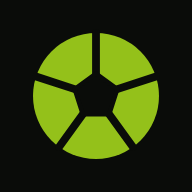
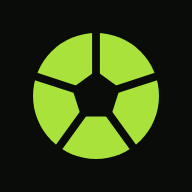
feat(web): glowing brand green, dark amber GK Lagbe, dark green Opponent Lagbe
The site's own green (#a8e23a) is now brand-only and glows softly on the
logo, the headline and the progress bar. Each board has its own darker
colour: GK Lagbe #d4861f, Opponent Lagbe #2e9e5b (both ~6:1 on the page
and with dark text on buttons).

Changed region(s): [[0.1562, 0.1562, 0.8438, 0.8438]]

diff --git a/web/src/index.css b/web/src/index.css
@@ -11,8 +11,8 @@
   --card-foreground: #eef3e6;
   --popover: #111410;
   --popover-foreground: #eef3e6;
-  /* Brand green (also Opponent Lagbe), a touch darker than the original #a6d421. */
-  --primary: #94c11a;
+  /* The site's own glowing green: brand only (logo, headline, site-wide accents). */
+  --primary: #a8e23a;
   --primary-foreground: #0a0c09;
   --secondary: #181c15;
   --secondary-foreground: #eef3e6;
@@ -25,26 +25,39 @@
   --border: #1d2219;
   --line: #2b3226;
   --input: #2b3226;
-  --ring: #94c11a;
+  --ring: #a8e23a;
   --line-strong: #4a5342;
-  /* GK Lagbe's colour. */
-  --gk: #f0a23a;
+  /* The two boards each have their own, darker colour, apart from the brand. */
+  --gk: #d4861f; /* GK Lagbe: dark amber */
   --gk-foreground: #0a0c09;
-  /* The current board's colour: brand green unless a .board-gk ancestor says amber. */
+  --opp: #2e9e5b; /* Opponent Lagbe: dark green */
+  --opp-foreground: #0a0c09;
+  /* The current board's colour: brand green outside any board, else the board's own. */
   --board: var(--primary);
   --board-foreground: var(--primary-foreground);
 }
 
-/* Anything that belongs to one board takes its colour: GK Lagbe amber, Opponent Lagbe green. */
+/* Anything that belongs to one board takes its colour: GK Lagbe dark amber, Opponent Lagbe dark green. */
 .board-gk {
   --board: var(--gk);
   --board-foreground: var(--gk-foreground);
   --ring: var(--gk);
 }
 .board-opp {
-  --board: var(--primary);
-  --board-foreground: var(--primary-foreground);
-  --ring: var(--primary);
+  --board: var(--opp);
+  --board-foreground: var(--opp-foreground);
+  --ring: var(--opp);
+}
+
+/* The brand green glows a little where it matters (logo, headline, progress bar). */
+.glow {
+  text-shadow: 0 0 28px color-mix(in srgb, var(--primary) 45%, transparent);
+}
+.glow-box {
+  box-shadow: 0 0 14px color-mix(in srgb, var(--primary) 70%, transparent);
+}
+.glow-svg {
+  filter: drop-shadow(0 0 8px color-mix(in srgb, var(--primary) 55%, transparent));
 }
 
 @theme inline {
@@ -61,6 +74,7 @@
   --color-board: var(--board);
   --color-board-foreground: var(--board-foreground);
   --color-gk: var(--gk);
+  --color-opp: var(--opp);
   --color-secondary: var(--secondary);
   --color-secondary-foreground: var(--secondary-foreground);
   --color-muted: var(--muted);

diff --git a/web/src/pages/HomePage.tsx b/web/src/pages/HomePage.tsx
@@ -142,7 +142,7 @@ function Hero({ state, openOf }: { state: AsyncState<PublicPost[]>; openOf: (typ
           className="on-pitch font-display text-[clamp(5.75rem,21vw,13rem)] md:text-[14vw] xl:text-[13rem] leading-[0.8] font-extrabold tracking-[-0.015em] uppercase"
         >
           <RevealWords text="Khelbi" className="block" />
-          <RevealWords text="Naki?" className="block" wordClassName="text-board" delay={0.12} />
+          <RevealWords text="Naki?" className="glow block" wordClassName="text-primary" delay={0.12} />
         </h1>
 
         <FadeUp delay={0.15}>
@@ -247,8 +247,8 @@ function HowItWorks() {
 function Step({ step, i, progress }: { step: (typeof steps)[number]; i: number; progress: MotionValue<number> }) {
   const start = i / 3;
   // Each numeral lights up lime as the line reaches it.
-  const outline = useTransform(progress, [start, start + 0.12], ["#4a5342", "#94c11a"]);
-  const dot = useTransform(progress, [start, start + 0.05], ["#2b3226", "#94c11a"]);
+  const outline = useTransform(progress, [start, start + 0.12], ["#4a5342", "#a8e23a"]);
+  const dot = useTransform(progress, [start, start + 0.05], ["#2b3226", "#a8e23a"]);
 
   return (
     <li className={cn("relative flex gap-6 md:block md:pt-12", i === 0 ? "md:pr-12" : i === 1 ? "md:px-12" : "md:pl-12")}>

diff --git a/web/src/components/Brand.tsx b/web/src/components/Brand.tsx
@@ -34,7 +34,7 @@ export function BrandMark({ className }: { className?: string }) {
 export function Brand({ className, to = "/" }: { className?: string; to?: string }) {
   return (
     <Link to={to} aria-label="Khelbi Naki — home" className={cn("group relative inline-flex items-center gap-2.5", className)}>
-      <BrandMark className="size-[1.05em] shrink-0 transition-transform duration-500 ease-out group-hover:rotate-[72deg] motion-reduce:transition-none" />
+      <BrandMark className="glow-svg size-[1.05em] shrink-0 transition-transform duration-500 ease-out group-hover:rotate-[72deg] motion-reduce:transition-none" />
       <span className="relative">
         Khelbi <span className="text-primary">Naki?</span>
         <span className="absolute -bottom-1 left-0 h-[2px] w-0 bg-primary transition-[width] duration-300 ease-out group-hover:w-full motion-reduce:transition-none" />

diff --git a/web/src/components/hero/Football3D.tsx b/web/src/components/hero/Football3D.tsx
@@ -33,9 +33,9 @@ import { ConvexGeometry } from "three/addons/geometries/ConvexGeometry.js";
 
 // The site's palette: near-black green bodies, lime details, off-white highlights.
 const INK = new Color("#172010");
-const LIME = new Color("#94c11a");
-// GK Lagbe's amber, for the keeper's glove strap and the cone.
-const AMBER = new Color("#f0a23a");
+const LIME = new Color("#a8e23a");
+// GK Lagbe's dark amber, for the keeper's glove strap and the cone.
+const AMBER = new Color("#d4861f");
 const CHALK = new Color("#e9eee2");
 
 /** How much bigger the canvas is than the box it's centred on, so floating pieces never hit its edge. */

diff --git a/web/src/components/motion/ScrollProgress.tsx b/web/src/components/motion/ScrollProgress.tsx
@@ -8,7 +8,7 @@ export function ScrollProgress() {
     <motion.div
       aria-hidden="true"
       style={{ scaleX }}
-      className="fixed inset-x-0 top-0 z-50 h-[2px] origin-left bg-primary motion-reduce:hidden"
+      className="glow-box fixed inset-x-0 top-0 z-50 h-[2px] origin-left bg-primary motion-reduce:hidden"
     />
   );
 }

diff --git a/CLAUDE.md b/CLAUDE.md
@@ -197,8 +197,9 @@ call `window.scrollTo` directly), and a three.js football in the hero
 (`components/hero/Football3D.tsx`), lazy-loaded and skipped on Data Saver / no WebGL.
 Everything must respect `prefers-reduced-motion`.
 
-Board colours (owner, 2026-09-24): **GK Lagbe = amber `#f0a23a`**, **Opponent Lagbe =
-green `#94c11a`**, which is also the brand green (logo, site-wide accents). Board-specific
+Colours (owner, 2026-09-25): the **brand** is a glowing green `#a8e23a` (logo,
+headline, site-wide accents only); each board has its own darker colour —
+**GK Lagbe = dark amber `#d4861f`**, **Opponent Lagbe = dark green `#2e9e5b`**. Board-specific
 UI uses the `board` colour (`text-board`, `bg-board`, `border-board`,
 `text-board-foreground`); put the board's `tone` class from `listing.ts`
 (`board-gk` / `board-opp`) on its surface. Never hard-code either hex in a component.
